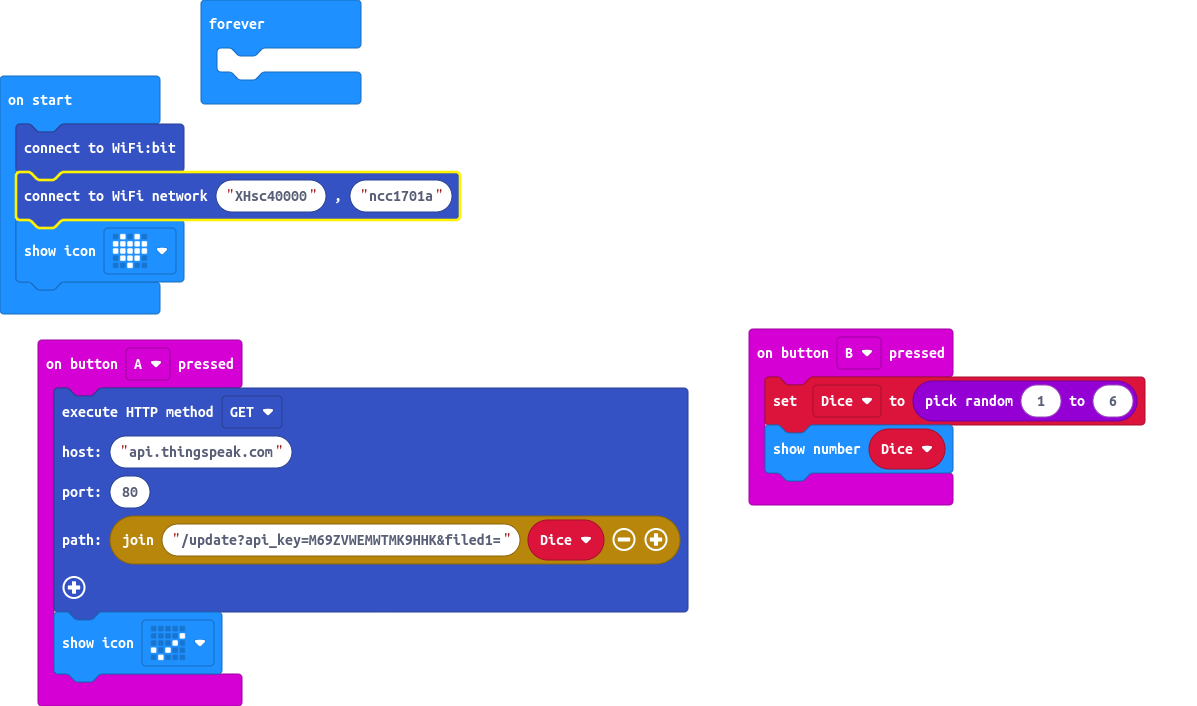
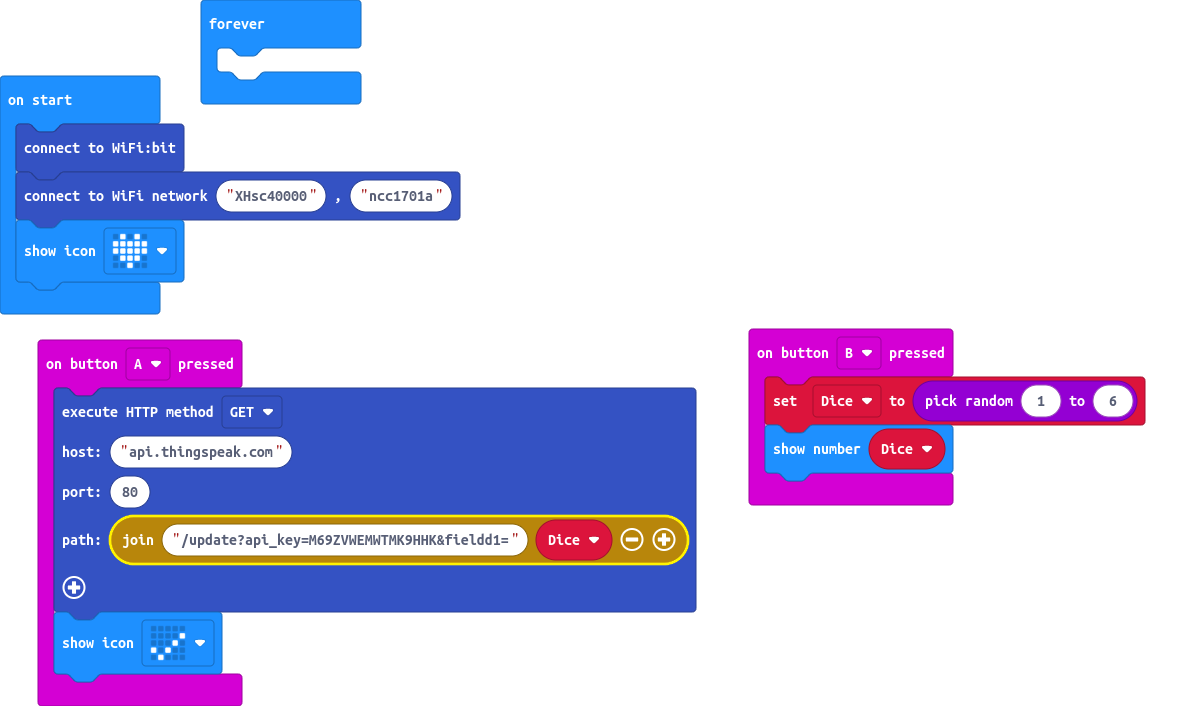
correct spelling mistake filed1

diff --git a/main.ts b/main.ts
@@ -3,7 +3,7 @@ input.onButtonPressed(Button.A, function () {
     HttpMethod.GET,
     "api.thingspeak.com",
     80,
-    "/update?api_key=M69ZVWEMWTMK9HHK&filed1=" + Dice
+    "/update?api_key=M69ZVWEMWTMK9HHK&fieldd1=" + Dice
     )
     basic.showIcon(IconNames.Yes)
 })
